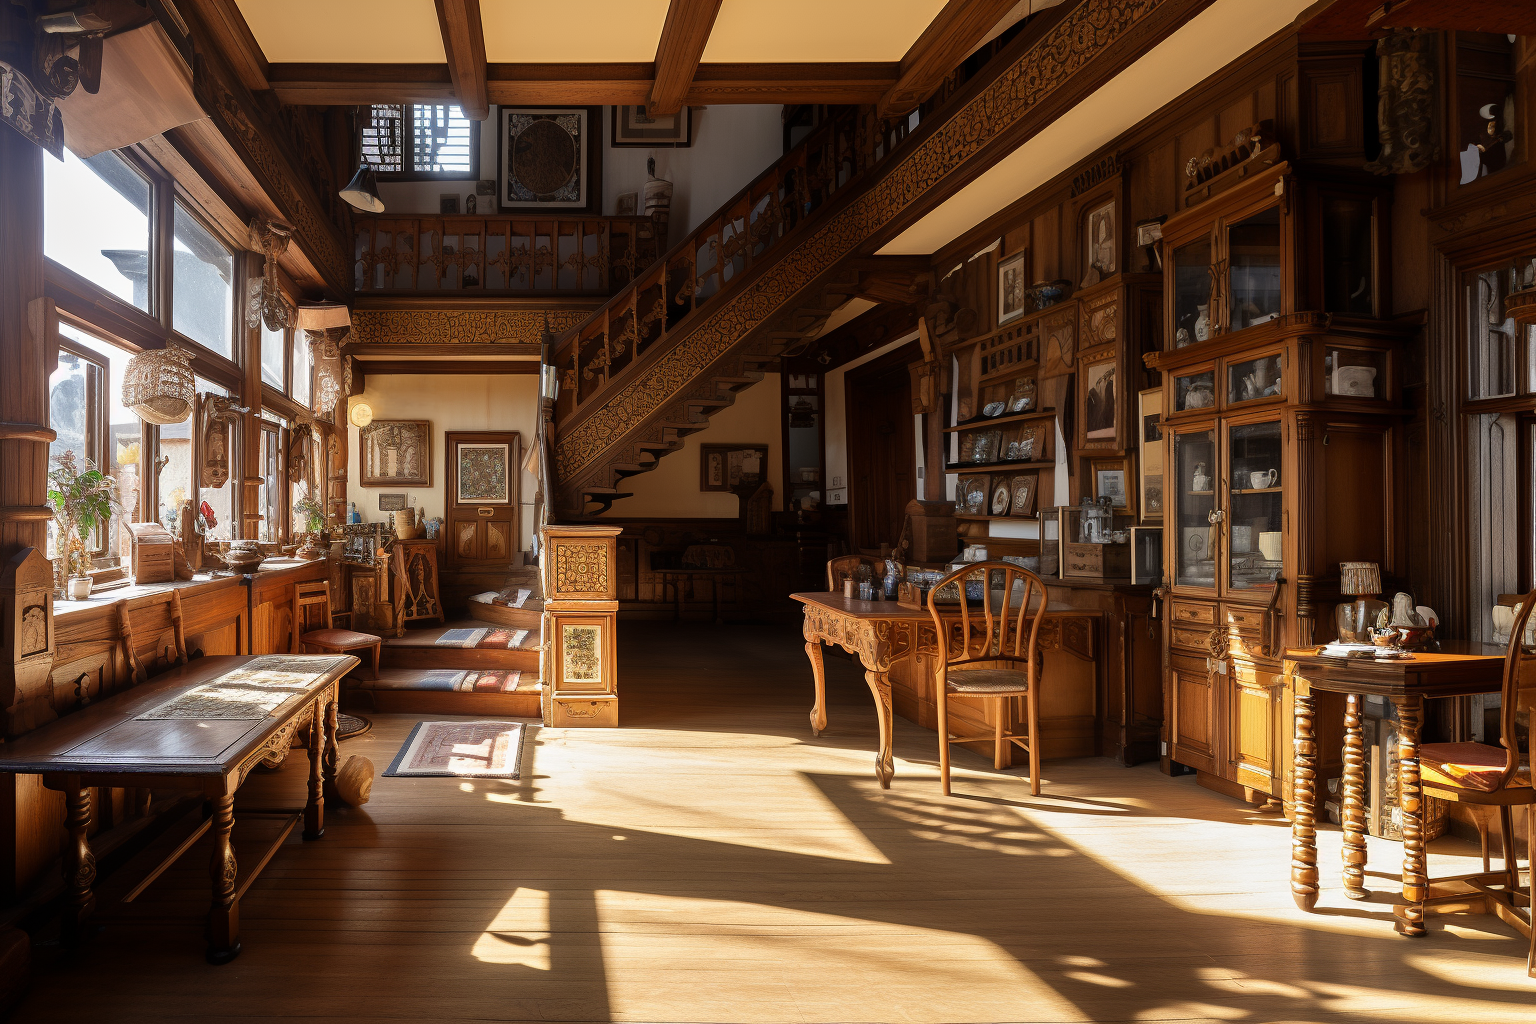
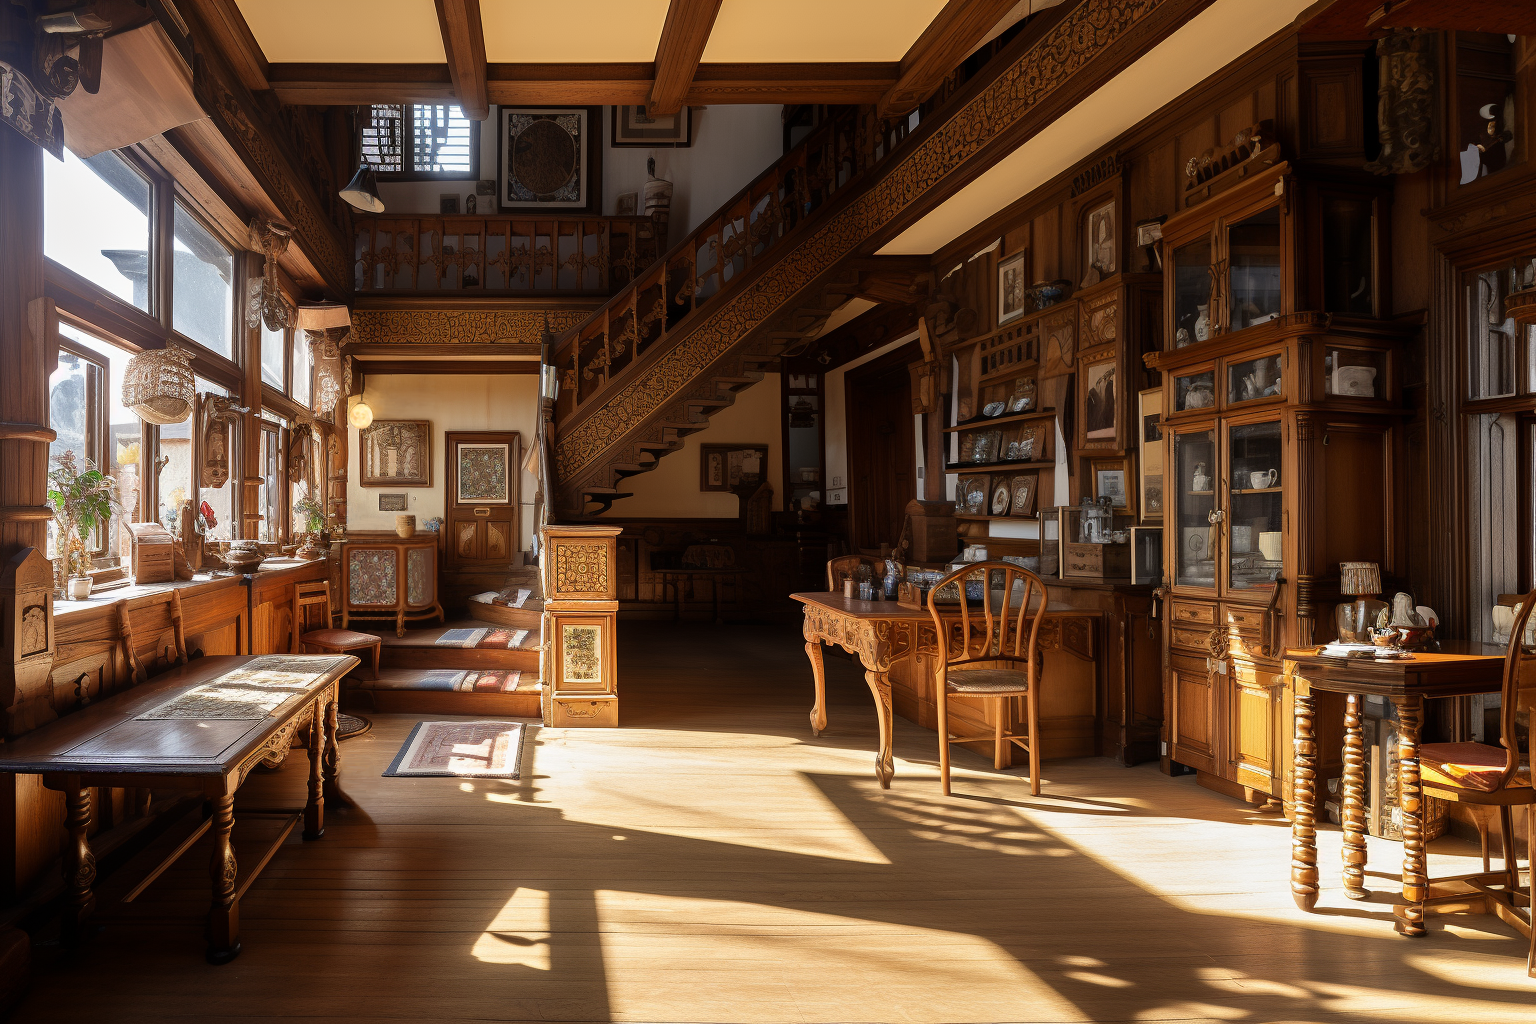
added a gongbi fan in 7th floor

Changed region(s): [[0.2188, 0.5, 0.2812, 0.625], [0.2188, 0.7188, 0.25, 0.7812]]

diff --git a/fairyland/gallery.html b/fairyland/gallery.html
@@ -54,6 +54,11 @@
             background-repeat: no-repeat;
         }
 
+        #painting-gongbi-fan-pic {
+            transform: rotateX(329deg) rotateY(342deg) rotateZ(348deg);
+            transition: transform 1s; /* Change happens over 2 seconds */
+        }
+
         .enlarged_painting {
             display: none;
             justify-content: center;
@@ -72,6 +77,7 @@
             display:grid;
             justify-content: center;
             align-content: stretch;
+            justify-items: center;
             gap: 3%;
             width:100%;
             height: 100%;
@@ -99,6 +105,7 @@
 
         .painting_intro h6 {
             text-align: center;
+            white-space: nowrap;
             color: antiquewhite;
             font:italic 2.5vh "Fira Sans", serif;
             font-size: 3vh;
@@ -145,11 +152,9 @@
             padding: 0;
         }
                    
-        #painting-two-cats-pic:hover {
-            cursor: pointer;
-        }
-
-        #painting-a-girl-pic:hover {
+        #painting-two-cats-pic:hover,
+        #painting-a-girl-pic:hover,
+        #painting-gongbi-fan-pic:hover {
             cursor: pointer;
         }
 
@@ -198,6 +203,14 @@
             <div id="painting-a-girl-pic" style="position:absolute; background: url('../pic/painting_a_girl.jpeg') no-repeat;
                                                     background-size: 100%; top: 44.15%; left: 30.05%; width:2.82%; height:4.3%;">
                 <div id="painting-a-girl-pic-mask" style="position: absolute; background: rgba(136, 57, 0, 0.3);
+                                                            top: 0; left: 0; width: 100%; height: 100%;"></div>
+            </div>
+        </div>
+
+        <div id="paint-gongbi_fan">
+            <div id="painting-gongbi-fan-pic" style="position:absolute; background: url('../pic/painting_gongbi_fan.png') no-repeat;
+                                                    background-size: 100%; top: 48.1%; left: 21.8%; width:2%; height:6%; perspective: 1000px;">
+                <div id="painting-gongbi-fan-pic-mask" style="position: absolute; background: rgba(136, 57, 0, 0.02);
                                                             top: 0; left: 0; width: 100%; height: 100%;"></div>
             </div>
         </div>
@@ -265,6 +278,36 @@
             </div>
         </div>
 
+        <div class="enlarged_painting" id="enlarged-painting-gongbi-fan" 
+                                        style="top: 12%; left: 18%; width: 23%; height: 50%;">
+            <div class="enlarged_painting_pic" id="enlarged-painting-gongbi-fan-pic" 
+                                                style="grid-template-rows: 75% 1fr;">
+                <div class="painting_pic">
+                    <img src="../pic/painting_gongbi_fan.png" style="width:100%; height: 100%;">
+                </div>
+                <div class="painting_intro">
+                    <h6>Orchids by the Water</h6>
+                    <p>Author: Zhiyin Tan
+                        <br>Date: 17 Nov 2017
+                    </p>
+                    <p style="text-align: left;">Introduction: <br>
+                        Marking the artist's initial exploration of silk fan Gongbi painting, 
+                        this memorable work, complished in a postgraduate activity at the University of Macau, 
+                        is adorned with orchids, symbols of gentlemanly virtues. 
+                        <br><br>
+                        The choice of the orchid resonates deeply with the artist, 
+                        as it mirrors a flower linked to her name and signifies an individual of great character 
+                        and humility in traditional Chinese literature.
+                     
+                    </p>
+                </div>
+            </div>
+            
+            <div class="close_icon_border" id="close-enlarged-painting-gongbi-fan-pic">
+                <span class="close_icon">&times;</span>
+            </div>
+        </div>
+
         <script>
             var smallFrameTwoCats = document.getElementById("painting-two-cats-pic");
             var frameTwoCats = document.getElementById("enlarged-painting-two-cats");
@@ -284,6 +327,7 @@
                 }
             }
 
+
             var smallFrameAGirl = document.getElementById("painting-a-girl-pic");
             var frameAGirl = document.getElementById("enlarged-painting-a-girl");
             var spanAGirl = document.getElementById("close-enlarged-painting-a-girl-pic");
@@ -299,6 +343,25 @@
             window.onclick = function(event) {
                 if (event.target == frameAGirl) {
                     frameAGirl.style.display = "none";
+                }
+            }
+
+           
+            var smallFrameGongbiFan = document.getElementById("painting-gongbi-fan-pic");
+            var frameGongbiFan = document.getElementById("enlarged-painting-gongbi-fan");
+            var spanGongbiFan = document.getElementById("close-enlarged-painting-gongbi-fan-pic");
+
+            smallFrameGongbiFan.onclick = function() {
+                frameGongbiFan.style.display = "block";
+            }
+
+            spanGongbiFan.onclick = function() {
+                frameGongbiFan.style.display = "none";
+            }
+
+            window.onclick = function(event) {
+                if (event.target == frameGongbiFan) {
+                    frameGongbiFan.style.display = "none";
                 }
             }
         </script>
